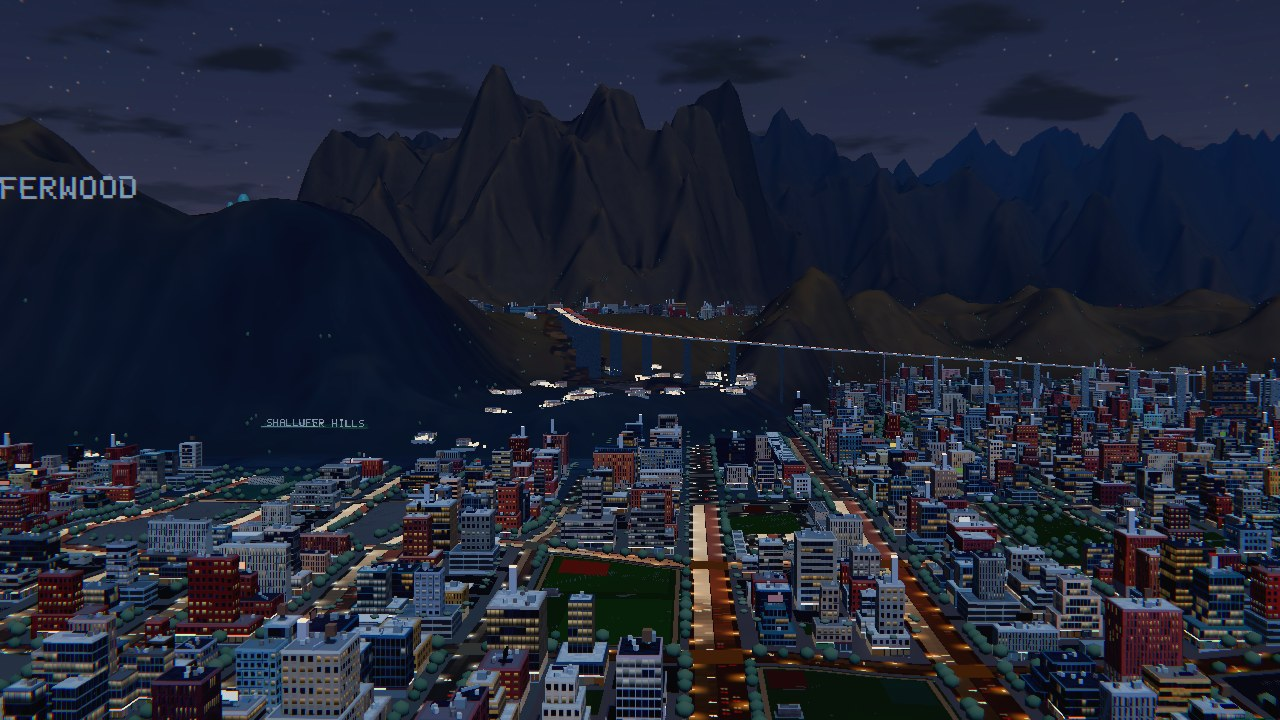
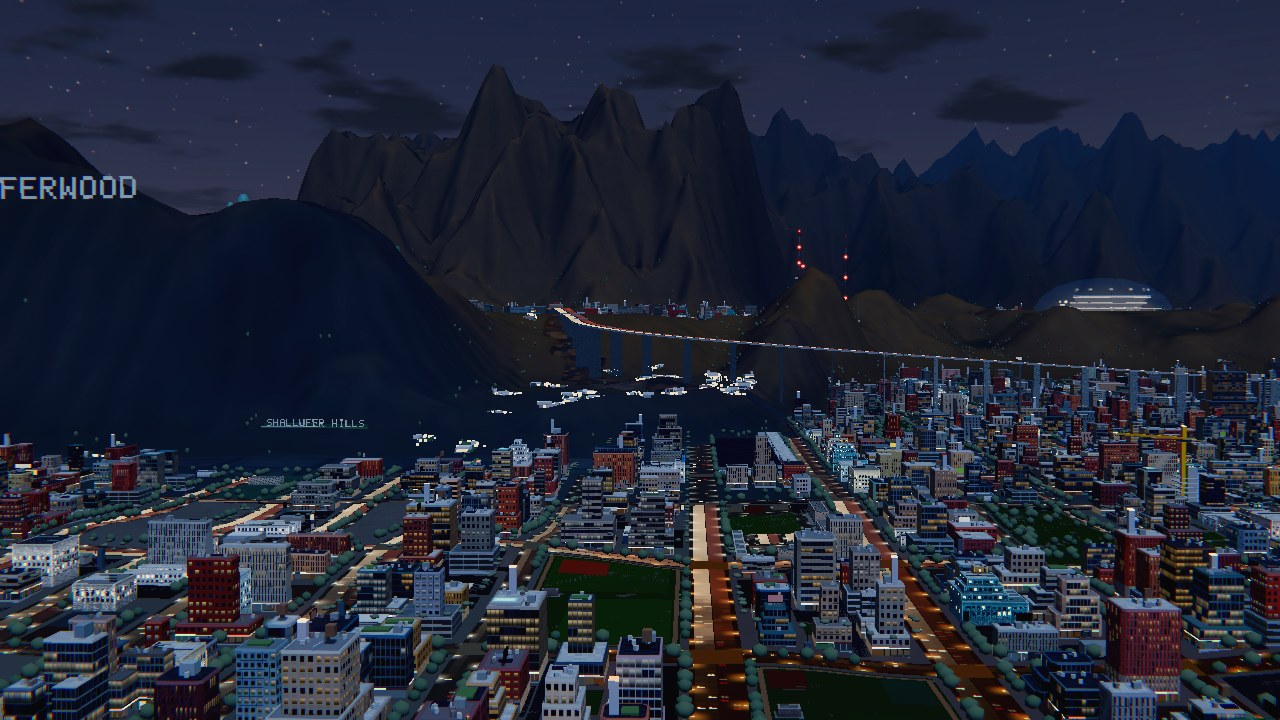
estate-night: stills on the hillside houses (before / after)

diff --git a/README.md b/README.md
@@ -1,18 +1,20 @@
-# estate-night stills (final)
+# estate-night stills (final, merged onto the hillside houses)
 
-The hillside estates past the FULL chunks (EstateFar, shaders/far_estate.gdshader), before
-(ESTATE_NIGHT=0: one pale box each, a pavers pad at LOD) and after, at the code of wt/estate-night.
-opengl3 (Compatibility) stills, 1280x720, FOV 35, --quality=0. Crops are 2-3x enlargements.
+The hillside estates past the FULL chunks, on fleet/batch4 with HillHomeKit (its houses at every
+range). Before = `ESTATE_NIGHT=0` (HillHomeKit alone); after = plus EstateFar's garden, court,
+pool glow, gate / door / garden / driveway lamps and the plan's trees. opengl3 (Compatibility)
+stills, 1280x720, FOV 35, --quality=0. Crops are 2-4x enlargements.
 
 | # | view | EYE (x,y,z,yaw,pitch) |
 |---|------|-----|
-| 01-04 | the front range from the basin, 1.8 km, 21:00 (03/04 crops): pale floating boxes -> lit houses with roofs, lamps on dark ground | 900,160,300,2.5,-2.5 |
-| 05/06 | the same at noon: pale blocks -> houses with tile and dark roofs, windows | same |
-| 07-10 | Palos Verdes ridge from the basin, 3.5 km, 21:00 (09/10 crops): grey-blue dashes -> warm lit homes, unevenly lit | 2034,80,3291,166.5,2.5 |
+| 01-04 | front range from the basin, 1.8 km, 21:00 (03/04 crops) | 900,160,300,2.5,-2.5 |
+| 05/06 | the same at noon | same |
+| 07-10 | Palos Verdes ridge from the basin, 3.5 km, 21:00 (09/10 crops): dim pale dashes -> clusters of warm lamps | 2034,80,3291,166.5,2.5 |
 | 11/12 | the ridge crop at noon | same |
-| 13-16 | from the air, 400 m up, 1 km off, 21:00 (15/16 crops): white blocks on pavers -> houses with lit windows, gate / door / garden lamps, pools glowing, hedges | 822,400,-400,0,-19 |
-| 17/18 | the air crop at noon: pads with lawn, court, hedges, pool, house, roof | same |
-| 19/20 | the headland's west end from 2.5 km, 21:00 | 633,60,2911,142.4,-0.5 |
+| 13-16 | from the air, 400 m up, ~1 km off, 21:00 (15/16 crops): lamps round every house, pools glowing | 822,400,-400,0,-19 |
+| 17/18 | the air crop at noon | same |
+| 19/20 | the LOD ring, ~500 m, noon and 21:00 (4x crops): lawn on the open side of the pads, lamps | 822,300,-900,0,-26 |
 
-Frame cost (GEO, same frames): +1-4 % triangles, draws equal or fewer.
-Not seen on Forward+ (the Mac): the lamp / window brightness through AgX is unverified.
+Frame cost (GEO, same frames): +0.9 to +2.3 % triangles, +5 to +16 draws.
+Not done: HillHomeKit's far walls are white stucco and still read pale in the moonlight here; not
+seen on Forward+ (the Mac).
